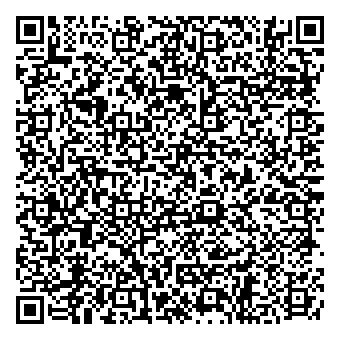
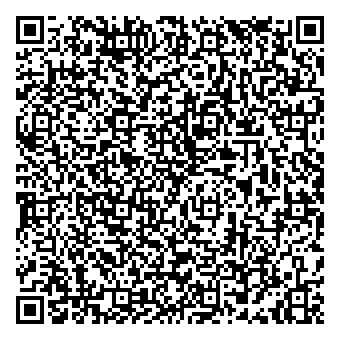
coba image

diff --git a/src/lib/client.js b/src/lib/client.js
@@ -3,7 +3,7 @@ const {messageHandler} = require('./eventHandler.js');
 const qrcode = require('qrcode');
 const path = require('path');
 const client = new Client({
-  authStrategy: new LocalAuth(),
+  // authStrategy: new LocalAuth(),
   puppeteer: {
     args: ['--no-sandbox', '--disable-setuid-sandbox']
   }
